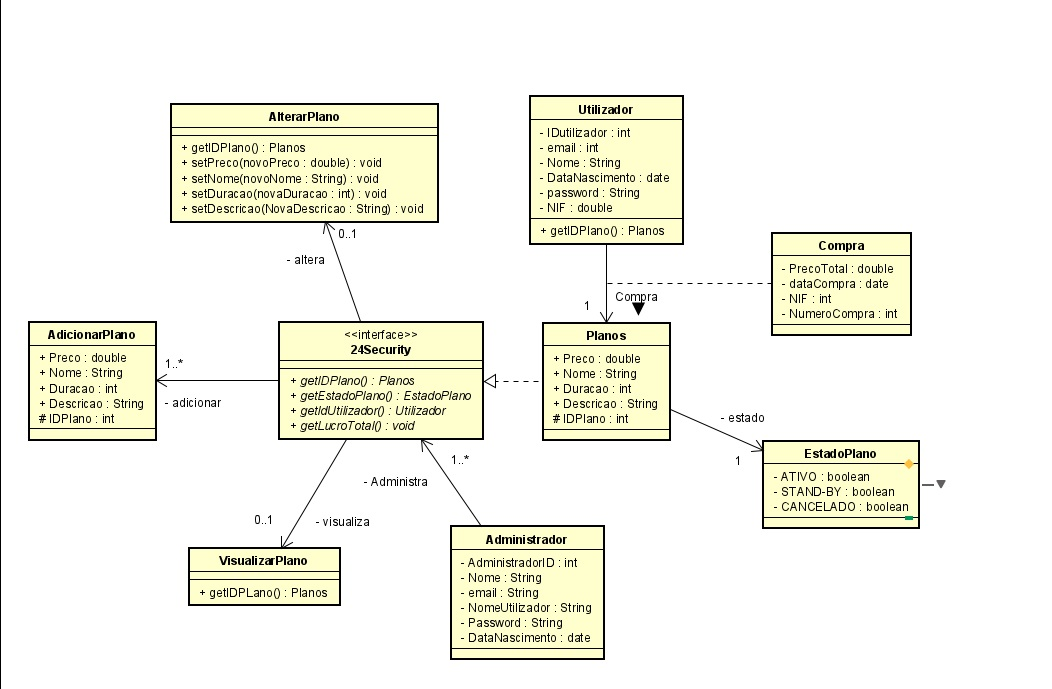
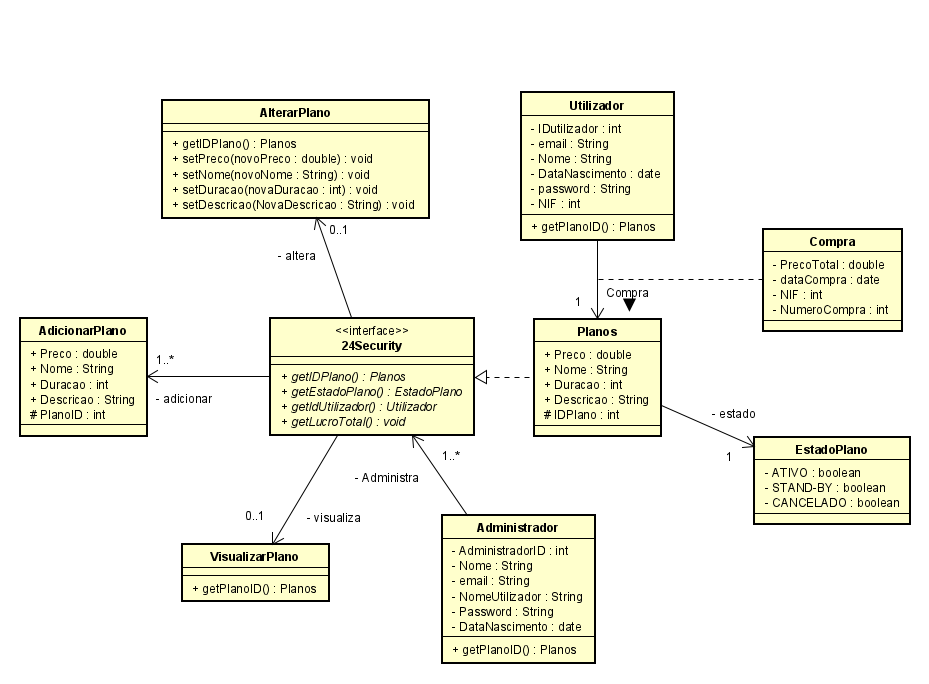
Update Diagrama de Classes do projeto 24Security

diff --git a/src/main/java/pt/iade/Security24/models/Planos.java b/src/main/java/pt/iade/Security24/models/Planos.java
@@ -1,5 +1,33 @@
 package pt.iade.Security24.models;
 
-public class Planos {
+public class Planos implements Security24 {
+    
+    public double Preço;
+    public String Nome;
+    public int Duração;
+    public String Descrição;
+    protected int PlanoID;
+
+    @Override
+    public EstadoPlano getEstadoPlano() {
+        return null;
+    }
+
+    @Override
+    public void getLucroTotal() {
+
+    }
+
+    @Override
+    public int getPlanoID() {
+
+        return 0;
+    }
+
+    @Override
+    public int getUtilizadorID() {
+
+        return 0;
+    }
     
 }

diff --git a/src/main/java/pt/iade/Security24/models/Administrador.java b/src/main/java/pt/iade/Security24/models/Administrador.java
@@ -1,5 +1,21 @@
 package pt.iade.Security24.models;
 
+import java.sql.Date;
+
 public class Administrador {
+
+    private int AdministradorID;
+    private String Nome;
+    private String Email;
+    private String NomeUtilizador;
+    private String Password;
+    private Date DataNascimento;
+
+    public int getUtilizadorID() {
+        return UtilizadorID;
+    }
     
+    public int getPlanoID() {
+        return PlanoID;
+    }
 }

diff --git a/src/main/java/pt/iade/Security24/models/Utilizador.java b/src/main/java/pt/iade/Security24/models/Utilizador.java
@@ -1,5 +1,17 @@
 package pt.iade.Security24.models;
 
+import java.sql.Date;
+
 public class Utilizador {
     
+    private int UtilizadorID;
+    private String Email;
+    private String Nome;
+    private Date DataNascimento;
+    private String Password;
+    private int NIF;
+
+    public int getPlanoID() {
+        return PlanoID;
+    }
 }

diff --git a/src/main/java/pt/iade/Security24/models/Security24.java b/src/main/java/pt/iade/Security24/models/Security24.java
@@ -2,4 +2,9 @@ package pt.iade.Security24.models;
 
 public interface Security24 {
     
+    int getUtilizadorID();
+    int getPlanoID();
+    EstadoPlano getEstadoPlano();
+    void getLucroTotal();
+
 }

diff --git a/src/main/java/pt/iade/Security24/models/EstadoPlano.java b/src/main/java/pt/iade/Security24/models/EstadoPlano.java
@@ -1,5 +1,9 @@
 package pt.iade.Security24.models;
 
 public enum EstadoPlano {
+
+    ATIVO, 
+    STANDBY,
+    CANCELADO;
     
 }
